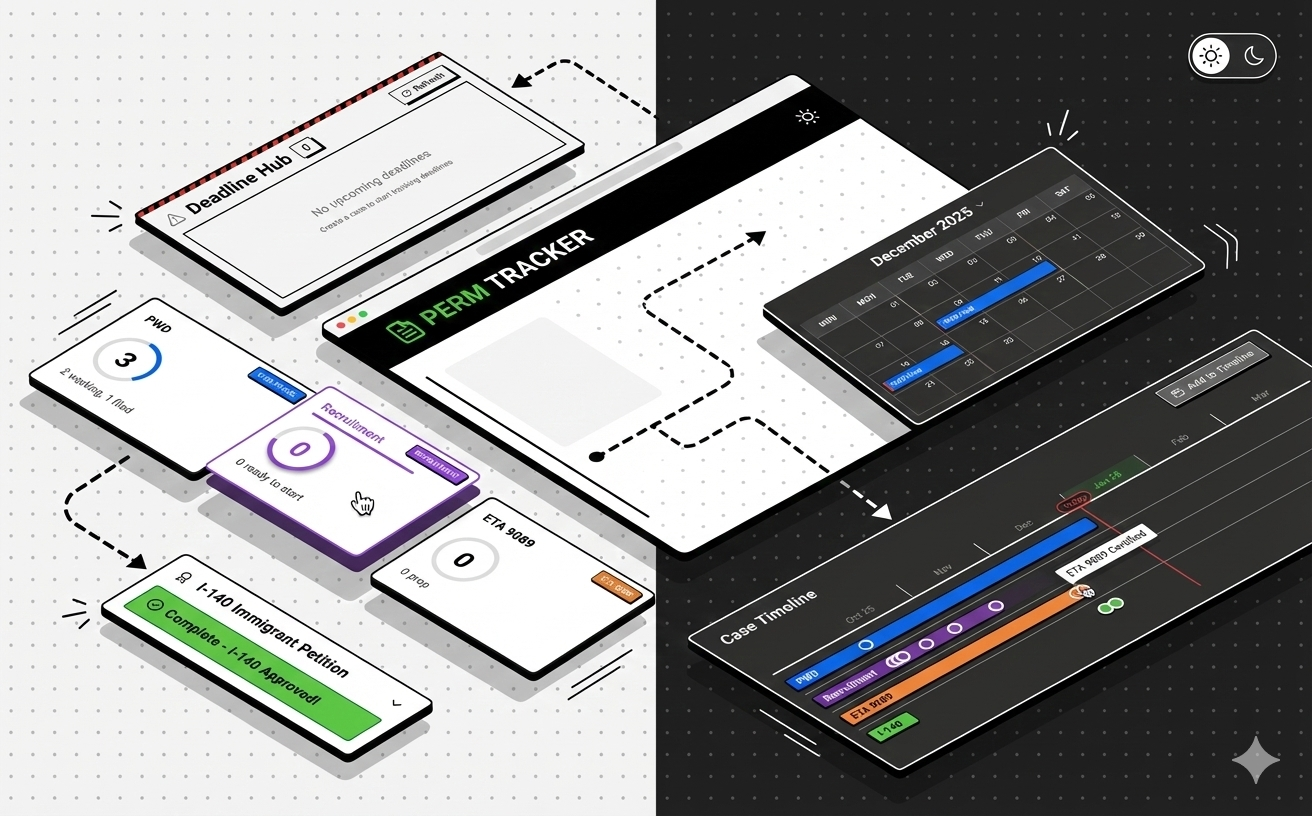
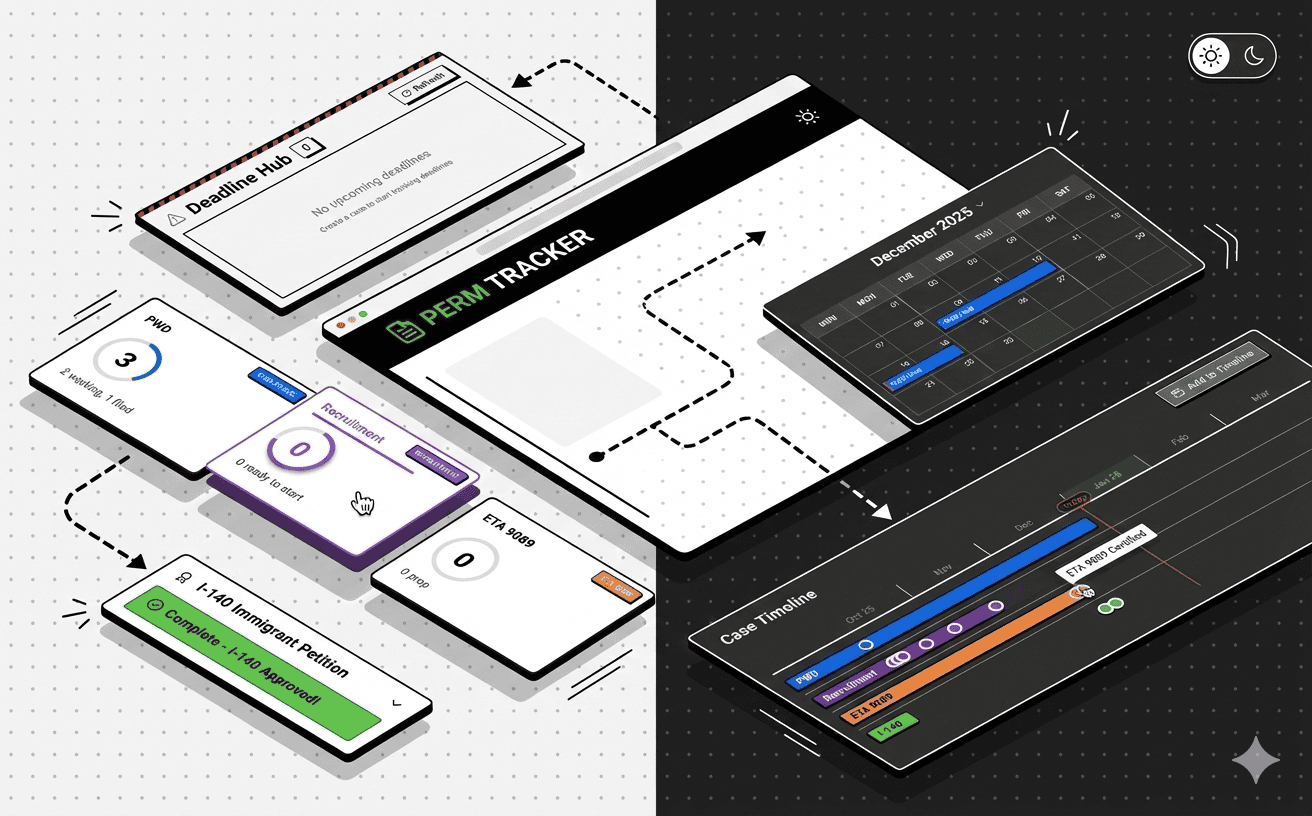
perf: fix LCP — lazy-load decorative hero bg, compress showcase image
- Remove priority from decorative hero background (alt="", 92% opacity overlay)
  so server-rendered headline text becomes LCP element (paints instantly)
- Compress hero-showcase.png (1.0MB → 213KB via pngquant)

diff --git a/v2/src/components/home/HeroSection.tsx b/v2/src/components/home/HeroSection.tsx
@@ -26,7 +26,7 @@ export function HeroSection() {
           src="/images/hero/legal-office-wide.jpg"
           alt=""
           fill
-          priority
+          loading="lazy"
           quality={40}
           className="object-cover"
           sizes="100vw"
